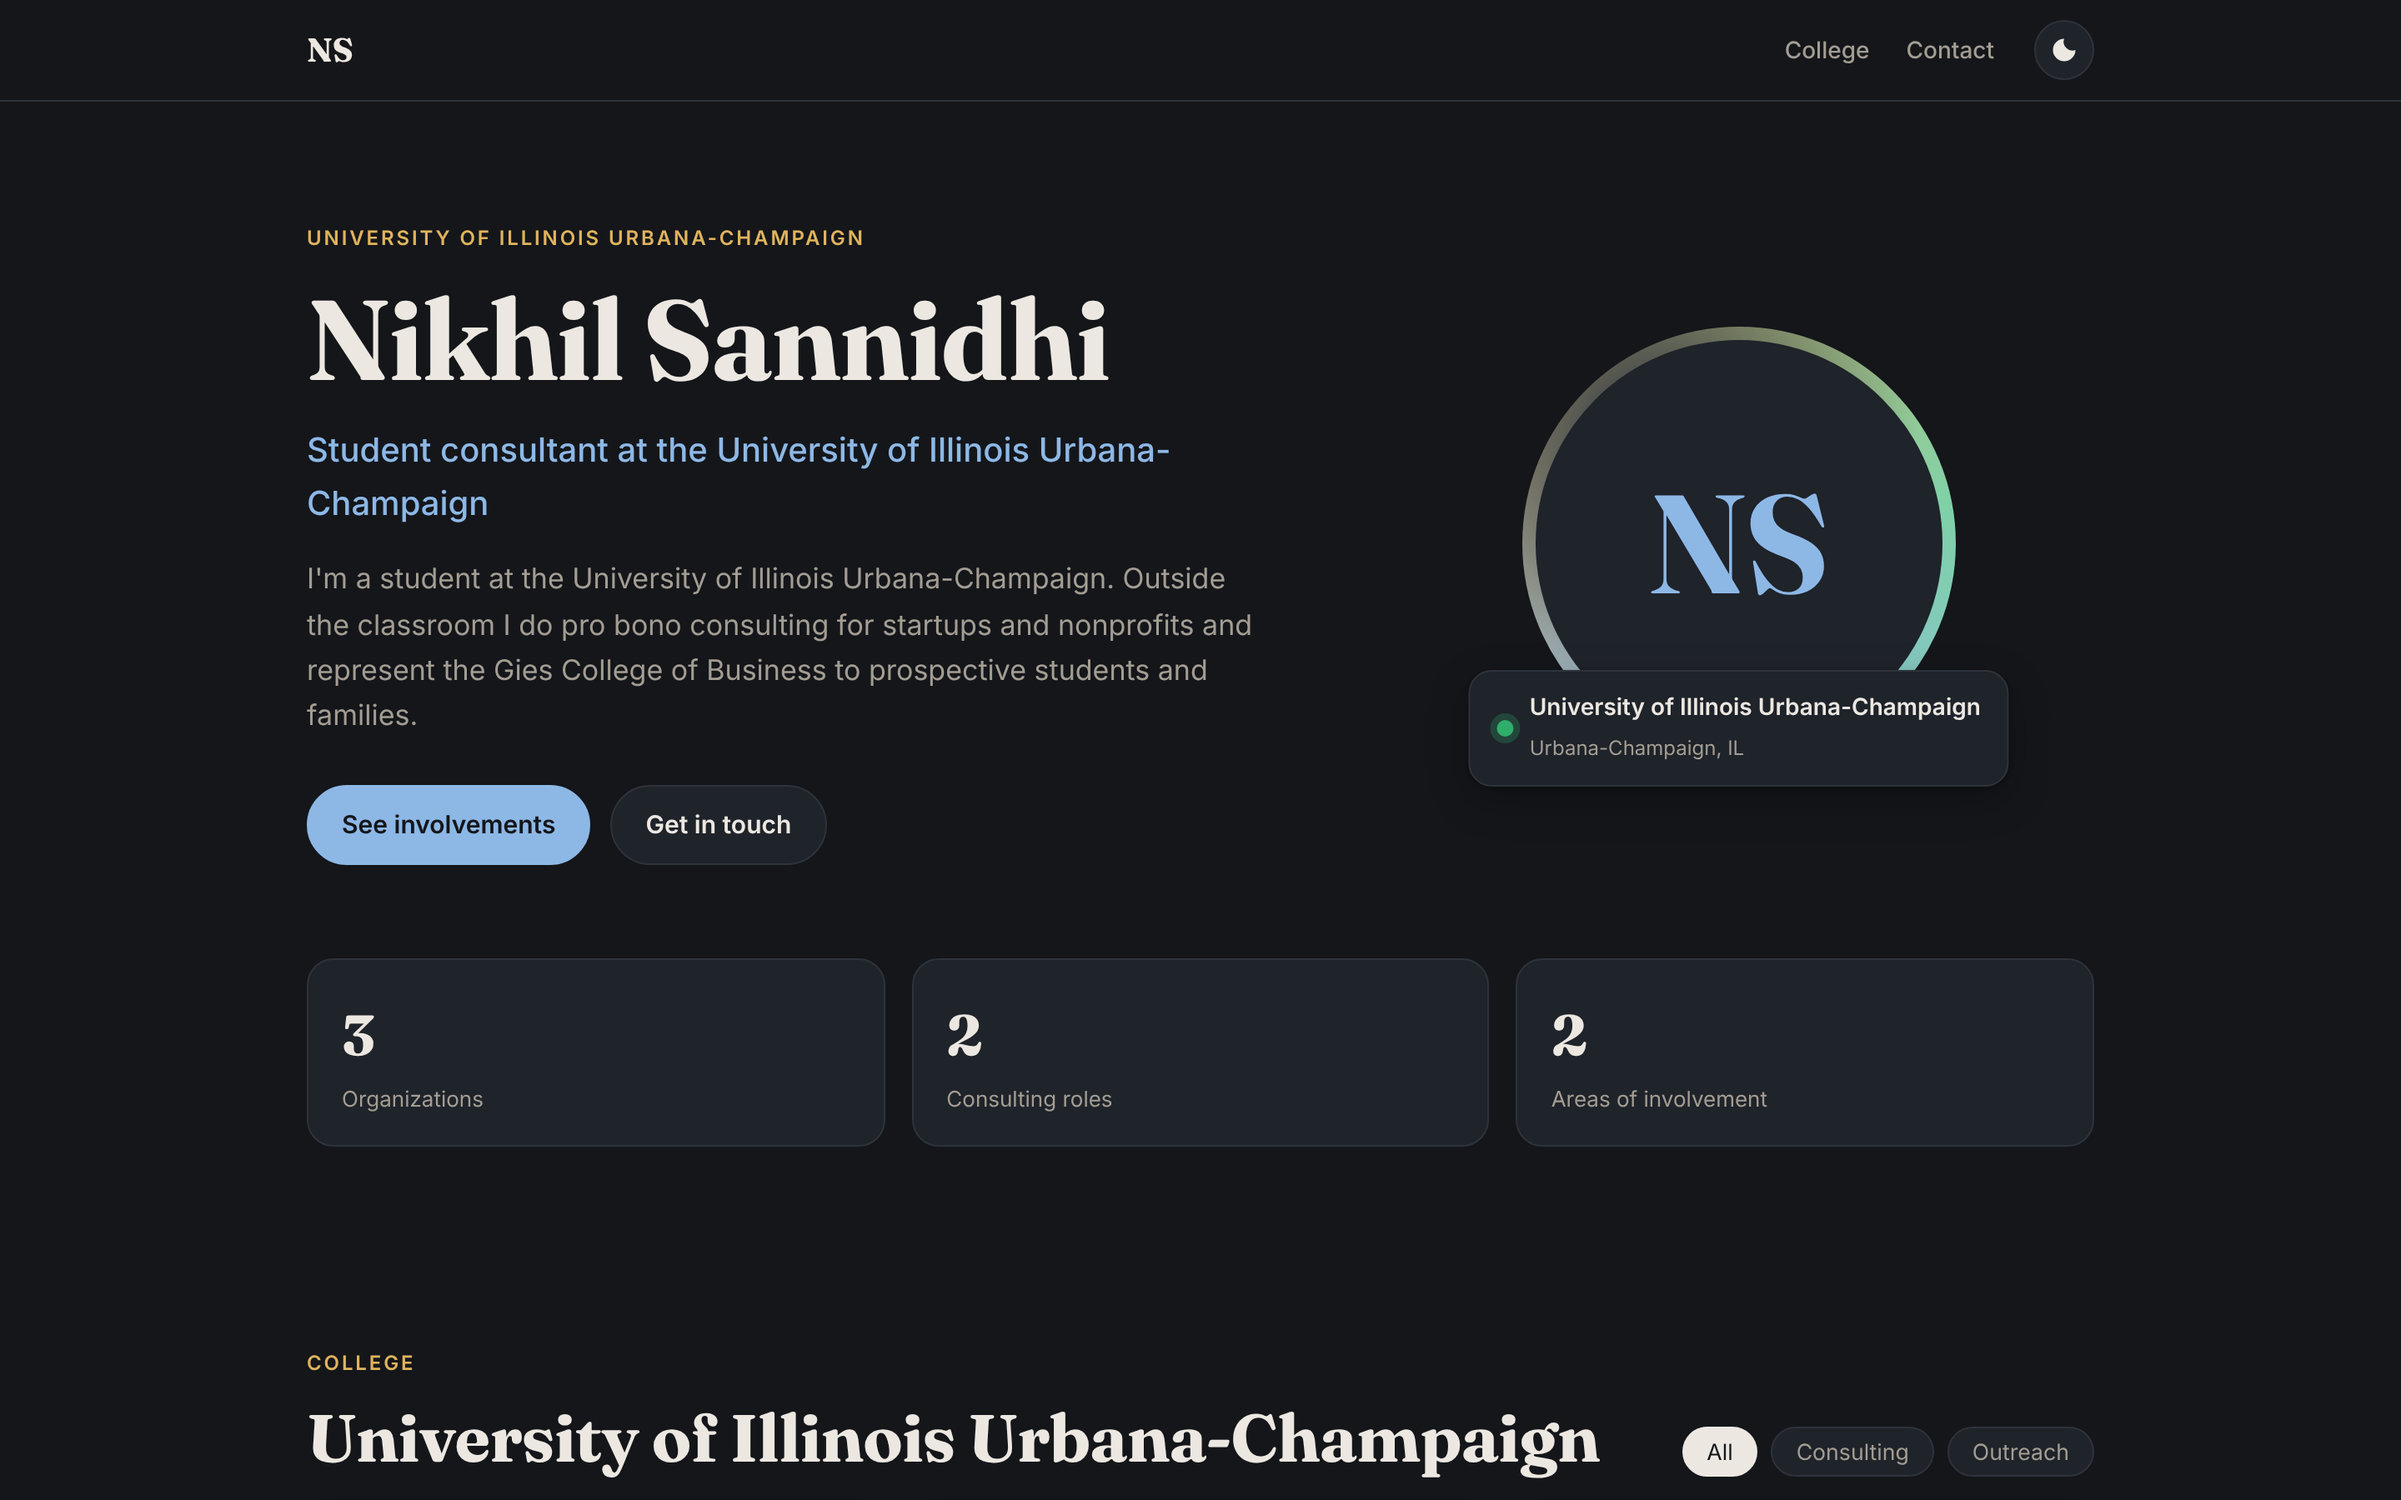
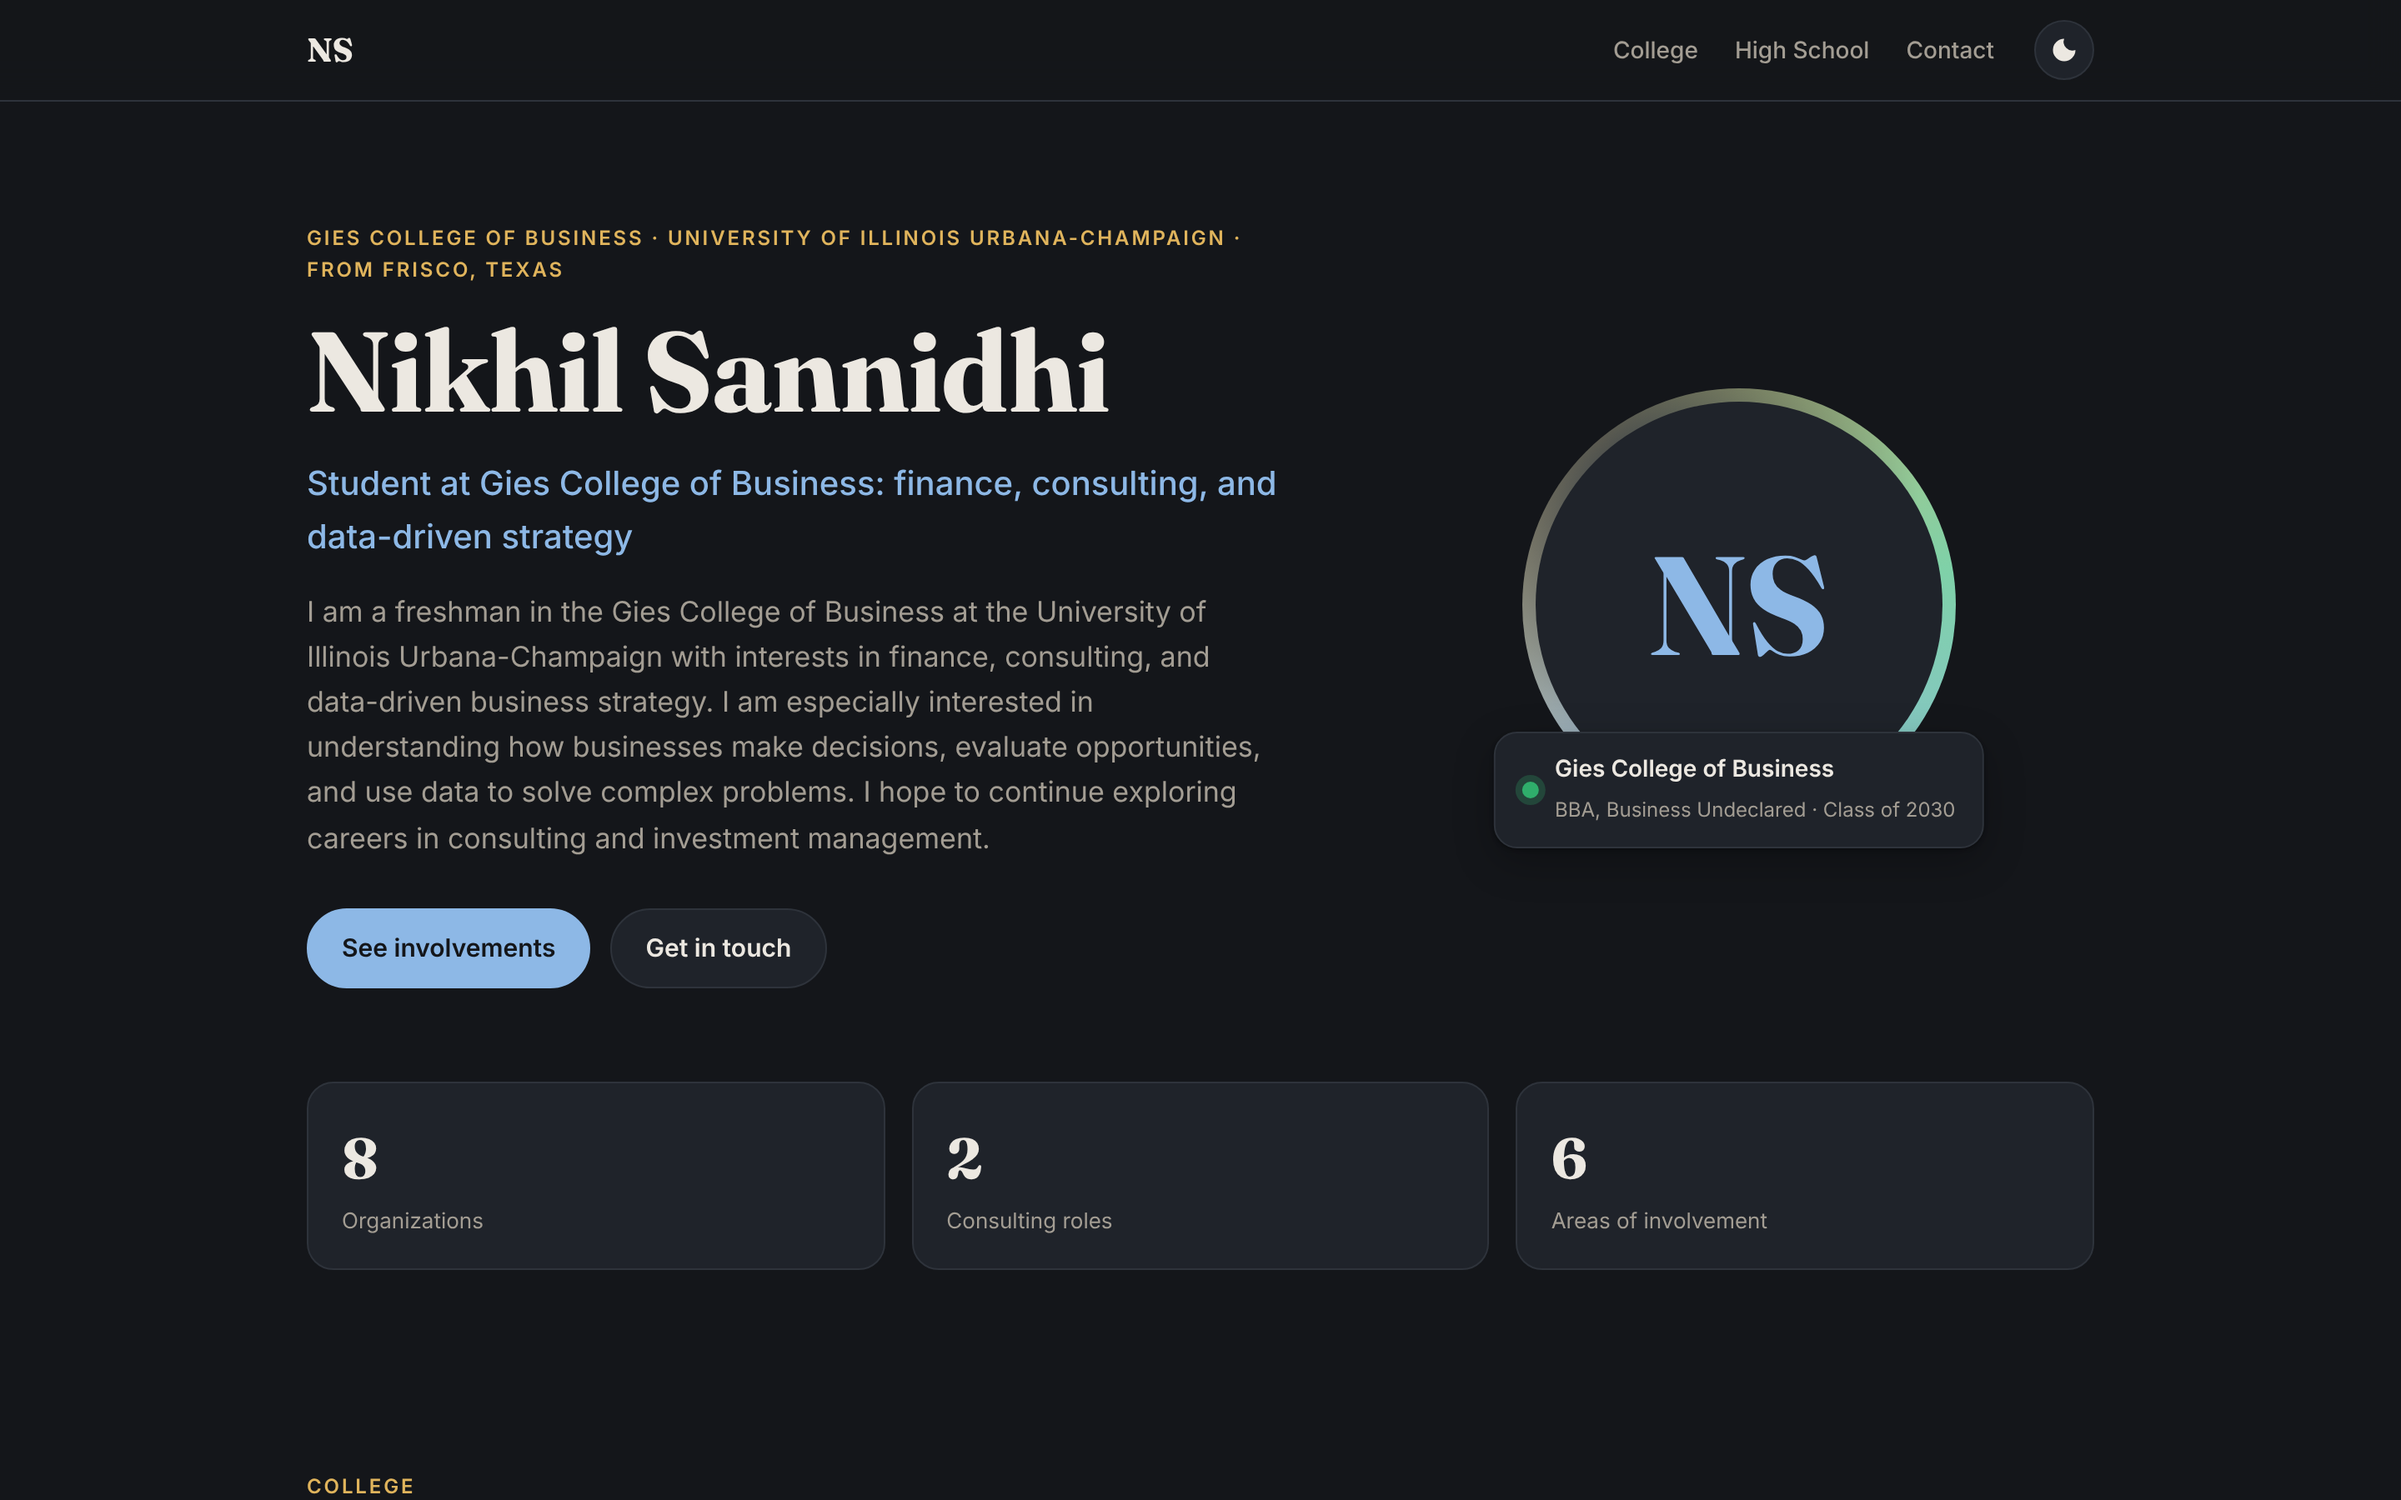
Use LinkedIn profile content
Add Gies BBA (2026-2030), consulting roles with dates, Gies Ambassadors,
Independence High School activities, About text, and email. Add a
Business category and hide the timeline until roles span multiple years.

Claude-Session: https://claude.ai/code/session_01SgPyzMhAcse7iobPH7wj7d

diff --git a/assets/content.js b/assets/content.js
@@ -9,7 +9,7 @@
  *    role         Your title or position
  *    start, end   Optional display dates, e.g. "Sep 2024", "Present"
  *                 (adding dates turns on the Timeline section)
- *    category     Consulting, Outreach, Leadership, Academic, Athletics, Service, Arts, Tech
+ *    category     Consulting, Outreach, Business, Leadership, Academic, Athletics, Service, Arts, Tech
  *    leader       true if this was a leadership position (counts in the stats)
  *    hours        Optional – service/volunteer hours (summed in the stats)
  *    summary      One or two sentences about what you did
@@ -20,64 +20,98 @@
 
 window.PROFILE = {
   name: "Nikhil Sannidhi",
-  tagline: "Student consultant at the University of Illinois Urbana-Champaign",
+  tagline: "Student at Gies College of Business: finance, consulting, and data-driven strategy",
   intro:
-    "I'm a student at the University of Illinois Urbana-Champaign. Outside the classroom I do pro bono consulting for startups and nonprofits and represent the Gies College of Business to prospective students and families.",
+    "I am a freshman in the Gies College of Business at the University of Illinois Urbana-Champaign with interests in finance, consulting, and data-driven business strategy. I am especially interested in understanding how businesses make decisions, evaluate opportunities, and use data to solve complex problems. I hope to continue exploring careers in consulting and investment management.",
   college: "University of Illinois Urbana-Champaign",
-  major: "",          // e.g. "B.S. Finance"
-  gradYear: "",       // e.g. "2028"
-  collegeStartYear: "", // e.g. "2024"
-  highSchool: "",
-  hsGradYear: "",
-  location: "Urbana-Champaign, IL",
-  email: "",          // e.g. "nikhil@example.com"
+  collegeShort: "Gies College of Business",
+  major: "BBA, Business Undeclared",
+  gradYear: "2030",
+  collegeStartYear: "2026",
+  highSchool: "Independence High School",
+  hsGradYear: "2026",
+  location: "From Frisco, Texas",
+  email: "nikhil21@illinois.edu",
   links: [
     { label: "LinkedIn", url: "https://www.linkedin.com/in/nikhilsannidhi/" },
-    // { label: "Résumé (PDF)", url: "resume.pdf" },
   ],
 };
 
 window.INVOLVEMENTS = {
   college: [
     {
-      org: "EntreCorps",
+      org: "EntreCORPS | Consulting for Startups",
       role: "Consultant",
+      start: "Sep 2026",
+      end: "Present",
       category: "Consulting",
       leader: false,
       summary:
-        "Student-run, pro bono growth and innovation consulting firm at Gies, part of the Origin Ventures Academy for Entrepreneurial Leadership, advising startups and early-stage ventures.",
-      highlights: [
-        "Work on client projects with startups and early-stage ventures",
-        "Help with growth strategy, market research, and innovation problems",
-      ],
+        "Student-run, pro bono consulting firm at Gies, part of the Origin Ventures Academy for Entrepreneurial Leadership, that advises startups and early-stage ventures. On-site in Champaign, Illinois.",
+      highlights: [],
     },
     {
-      org: "Students Consulting for Non-Profit Organizations (SCNO)",
+      org: "Illinois Students Consulting for Nonprofit Organizations (SCNO)",
       role: "Consultant",
+      start: "Sep 2026",
+      end: "Present",
       category: "Consulting",
       leader: false,
       summary:
-        "Student-led consulting organization that provides free consulting services to nonprofits in Champaign-Urbana and beyond.",
-      highlights: [
-        "Work on pro bono consulting engagements for nonprofit clients",
-        "Turn research and analysis into recommendations clients can act on",
-      ],
+        "Student-led consulting organization that provides free consulting to nonprofits in Champaign-Urbana and beyond. On-site in Champaign, Illinois.",
+      highlights: [],
     },
     {
-      org: "Gies College of Business",
+      org: "Gies Ambassadors",
       role: "Gies Ambassador",
       category: "Outreach",
       leader: false,
       summary:
         "Represent the Gies College of Business to prospective and admitted students and their families.",
-      highlights: [
-        "Meet with prospective and admitted students and families",
-        "Lead tours and serve on student panels",
-        "Support Gies recruitment and admissions events",
-      ],
+      highlights: [],
     },
   ],
 
-  // Add high school involvements here – the section appears automatically.
-  highSchool: [],
+  highSchool: [
+    {
+      org: "National Honor Society",
+      role: "Member",
+      category: "Leadership",
+      leader: false,
+      summary: "Honor society recognizing scholarship, leadership, service, and character.",
+      highlights: [],
+    },
+    {
+      org: "DECA",
+      role: "Member",
+      category: "Business",
+      leader: false,
+      summary: "Competitive business organization for marketing, finance, and management.",
+      highlights: [],
+    },
+    {
+      org: "Business Professionals of America (BPA)",
+      role: "Member",
+      category: "Business",
+      leader: false,
+      summary: "Career and leadership competitions for students interested in business.",
+      highlights: [],
+    },
+    {
+      org: "Key Club",
+      role: "Member",
+      category: "Service",
+      leader: false,
+      summary: "Student-led service organization focused on community volunteering.",
+      highlights: [],
+    },
+    {
+      org: "Varsity Tennis",
+      role: "Team Member",
+      category: "Athletics",
+      leader: false,
+      summary: "Member of the Independence High School varsity tennis team.",
+      highlights: [],
+    },
+  ],
 };

diff --git a/assets/app.js b/assets/app.js
@@ -20,6 +20,7 @@
     Arts: '<path d="M9 3v11.6A3.5 3.5 0 1 0 11 18V8h7V3H9Z"/>',
     Tech: '<path d="M8.6 16.6 4 12l4.6-4.6L7.2 6 1.2 12l6 6 1.4-1.4Zm6.8 0L20 12l-4.6-4.6L16.8 6l6 6-6 6-1.4-1.4Z"/>',
     Consulting: '<path d="M9 3h6a2 2 0 0 1 2 2v2h3a2 2 0 0 1 2 2v4h-9v-1h-2v1H2V9a2 2 0 0 1 2-2h3V5a2 2 0 0 1 2-2Zm0 4h6V5H9v2Zm-7 8h9v1h2v-1h9v4a2 2 0 0 1-2 2H4a2 2 0 0 1-2-2v-4Z"/>',
+    Business: '<path d="M4 19h16v2H4zM6 10h3v7H6zm5-4h3v11h-3zm5 7h3v4h-3z"/>',
     Outreach: '<path d="M9 11a4 4 0 1 0 0-8 4 4 0 0 0 0 8Zm8 0a3 3 0 1 0 0-6 3 3 0 0 0 0 6ZM1 20c0-3.3 3.6-6 8-6s8 2.7 8 6v1H1v-1Zm17.5 1v-1c0-1.9-.8-3.6-2.1-4.9 3.6.3 6.6 2.4 6.6 4.9v1h-4.5Z"/>',
   };
   const icon = (cat) =>
@@ -30,12 +31,12 @@
   document.title = `${P.name} | Involvements`;
   $("brand").textContent = initials;
   $("initials").textContent = initials;
-  $("heroEyebrow").textContent = join(P.college, P.gradYear && `Class of ${P.gradYear}`);
+  $("heroEyebrow").textContent = join(P.collegeShort, P.college, P.location);
   $("heroName").textContent = P.name;
   $("heroTagline").textContent = P.tagline;
   $("heroIntro").textContent = P.intro;
-  $("cardSchool").textContent = P.college;
-  $("cardMajor").textContent = join(P.major, P.location);
+  $("cardSchool").textContent = P.collegeShort || P.college;
+  $("cardMajor").textContent = join(P.major, P.gradYear && `Class of ${P.gradYear}`);
   $("collegeTitle").textContent =
     P.collegeStartYear && P.gradYear ? `${P.college}, ${P.collegeStartYear}–${P.gradYear}` : P.college;
   $("hsTitle").textContent = join(P.highSchool, P.hsGradYear && `Class of ${P.hsGradYear}`);
@@ -100,7 +101,7 @@
   ].filter((x) => year(x.start));
   const leaders = dated.filter((x) => x.leader);
   const tl = (leaders.length ? leaders : dated).sort((a, b) => year(b.start) - year(a.start));
-  if (!tl.length) hideSection("timeline");
+  if (new Set(tl.map((x) => year(x.start))).size < 2) hideSection("timeline");
   else {
     $("timelineTitle").textContent = leaders.length ? "Leadership over the years" : "Over the years";
     $("timelineList").innerHTML = tl

diff --git a/assets/styles.css b/assets/styles.css
@@ -16,6 +16,7 @@
   --c-arts: #6b3fa0;       --c-arts-bg: #ece3f6;
   --c-tech: #0f6b78;       --c-tech-bg: #dcf0f2;
   --c-consulting: #7a4b1e; --c-consulting-bg: #f6e7d6;
+  --c-business: #1d4f91;   --c-business-bg: #e1eaf7;
   --c-outreach: #b2462a;   --c-outreach-bg: #fbe3da;
   color-scheme: light;
 }
@@ -31,6 +32,7 @@
     --c-arts: #c5a5ef;       --c-arts-bg: #2f2442;
     --c-tech: #7fd3de;       --c-tech-bg: #173a3f;
     --c-consulting: #e8b98a; --c-consulting-bg: #3b2a1a;
+    --c-business: #9cc0f0;   --c-business-bg: #1c2d45;
     --c-outreach: #f3a58f;   --c-outreach-bg: #40221a;
     color-scheme: dark;
   }
@@ -45,6 +47,7 @@
   --c-service: #f19bb0;    --c-service-bg: #42202a;
   --c-arts: #c5a5ef;       --c-arts-bg: #2f2442;
   --c-tech: #7fd3de;       --c-tech-bg: #173a3f;
+  --c-business: #9cc0f0;   --c-business-bg: #1c2d45;
   --c-consulting: #e8b98a; --c-consulting-bg: #3b2a1a;
   --c-outreach: #f3a58f;   --c-outreach-bg: #40221a;
   color-scheme: dark;
@@ -175,3 +178,4 @@ a { color: var(--accent); }
 [hidden] { display: none !important; }
 .stats { grid-template-columns: repeat(auto-fit, minmax(180px, 1fr)); }
 @media (max-width: 860px) { .stats { grid-template-columns: repeat(auto-fit, minmax(100px, 1fr)); gap: 10px; } .stats div { padding: 14px; } .stats dd { font-size: 28px; } }
+.cat-business { color: var(--c-business); background: var(--c-business-bg); }

diff --git a/README.md b/README.md
@@ -1,6 +1,6 @@
 # Involvements Profile Site
 
-A one-page personal website for Nikhil Sannidhi showing college and high school involvements: consulting, ambassador roles, clubs, and service.
+A one-page personal website for Nikhil Sannidhi (Gies College of Business, UIUC) showing college and high school involvements.
 
 ## Edit your content
 
